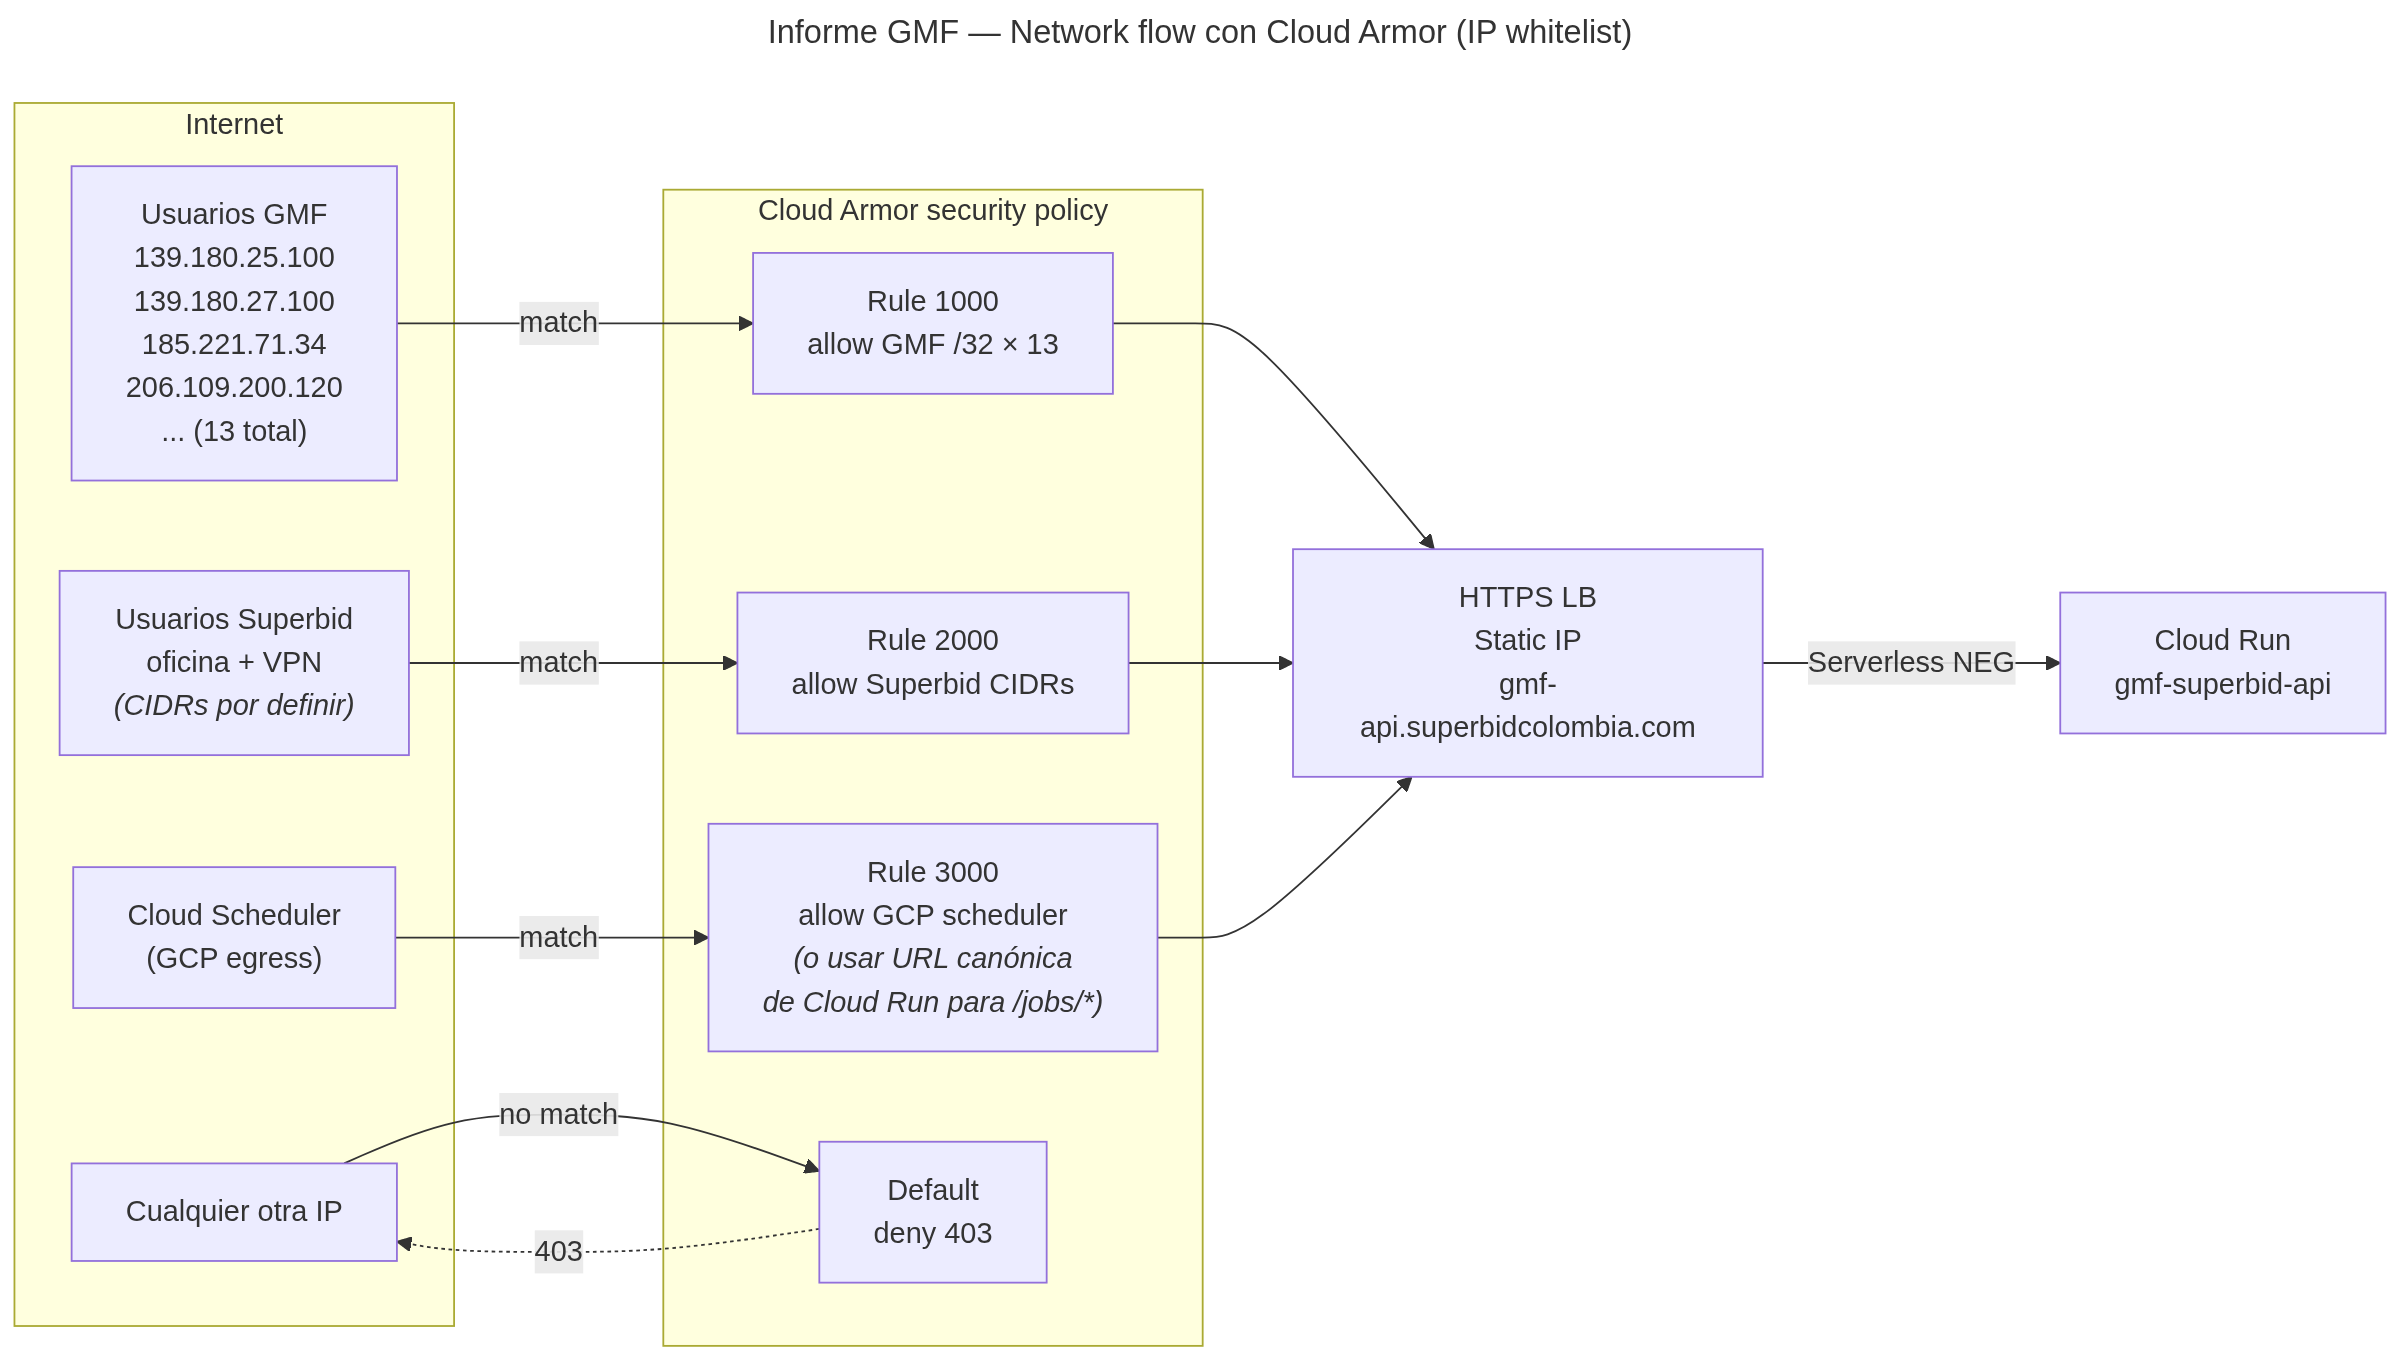
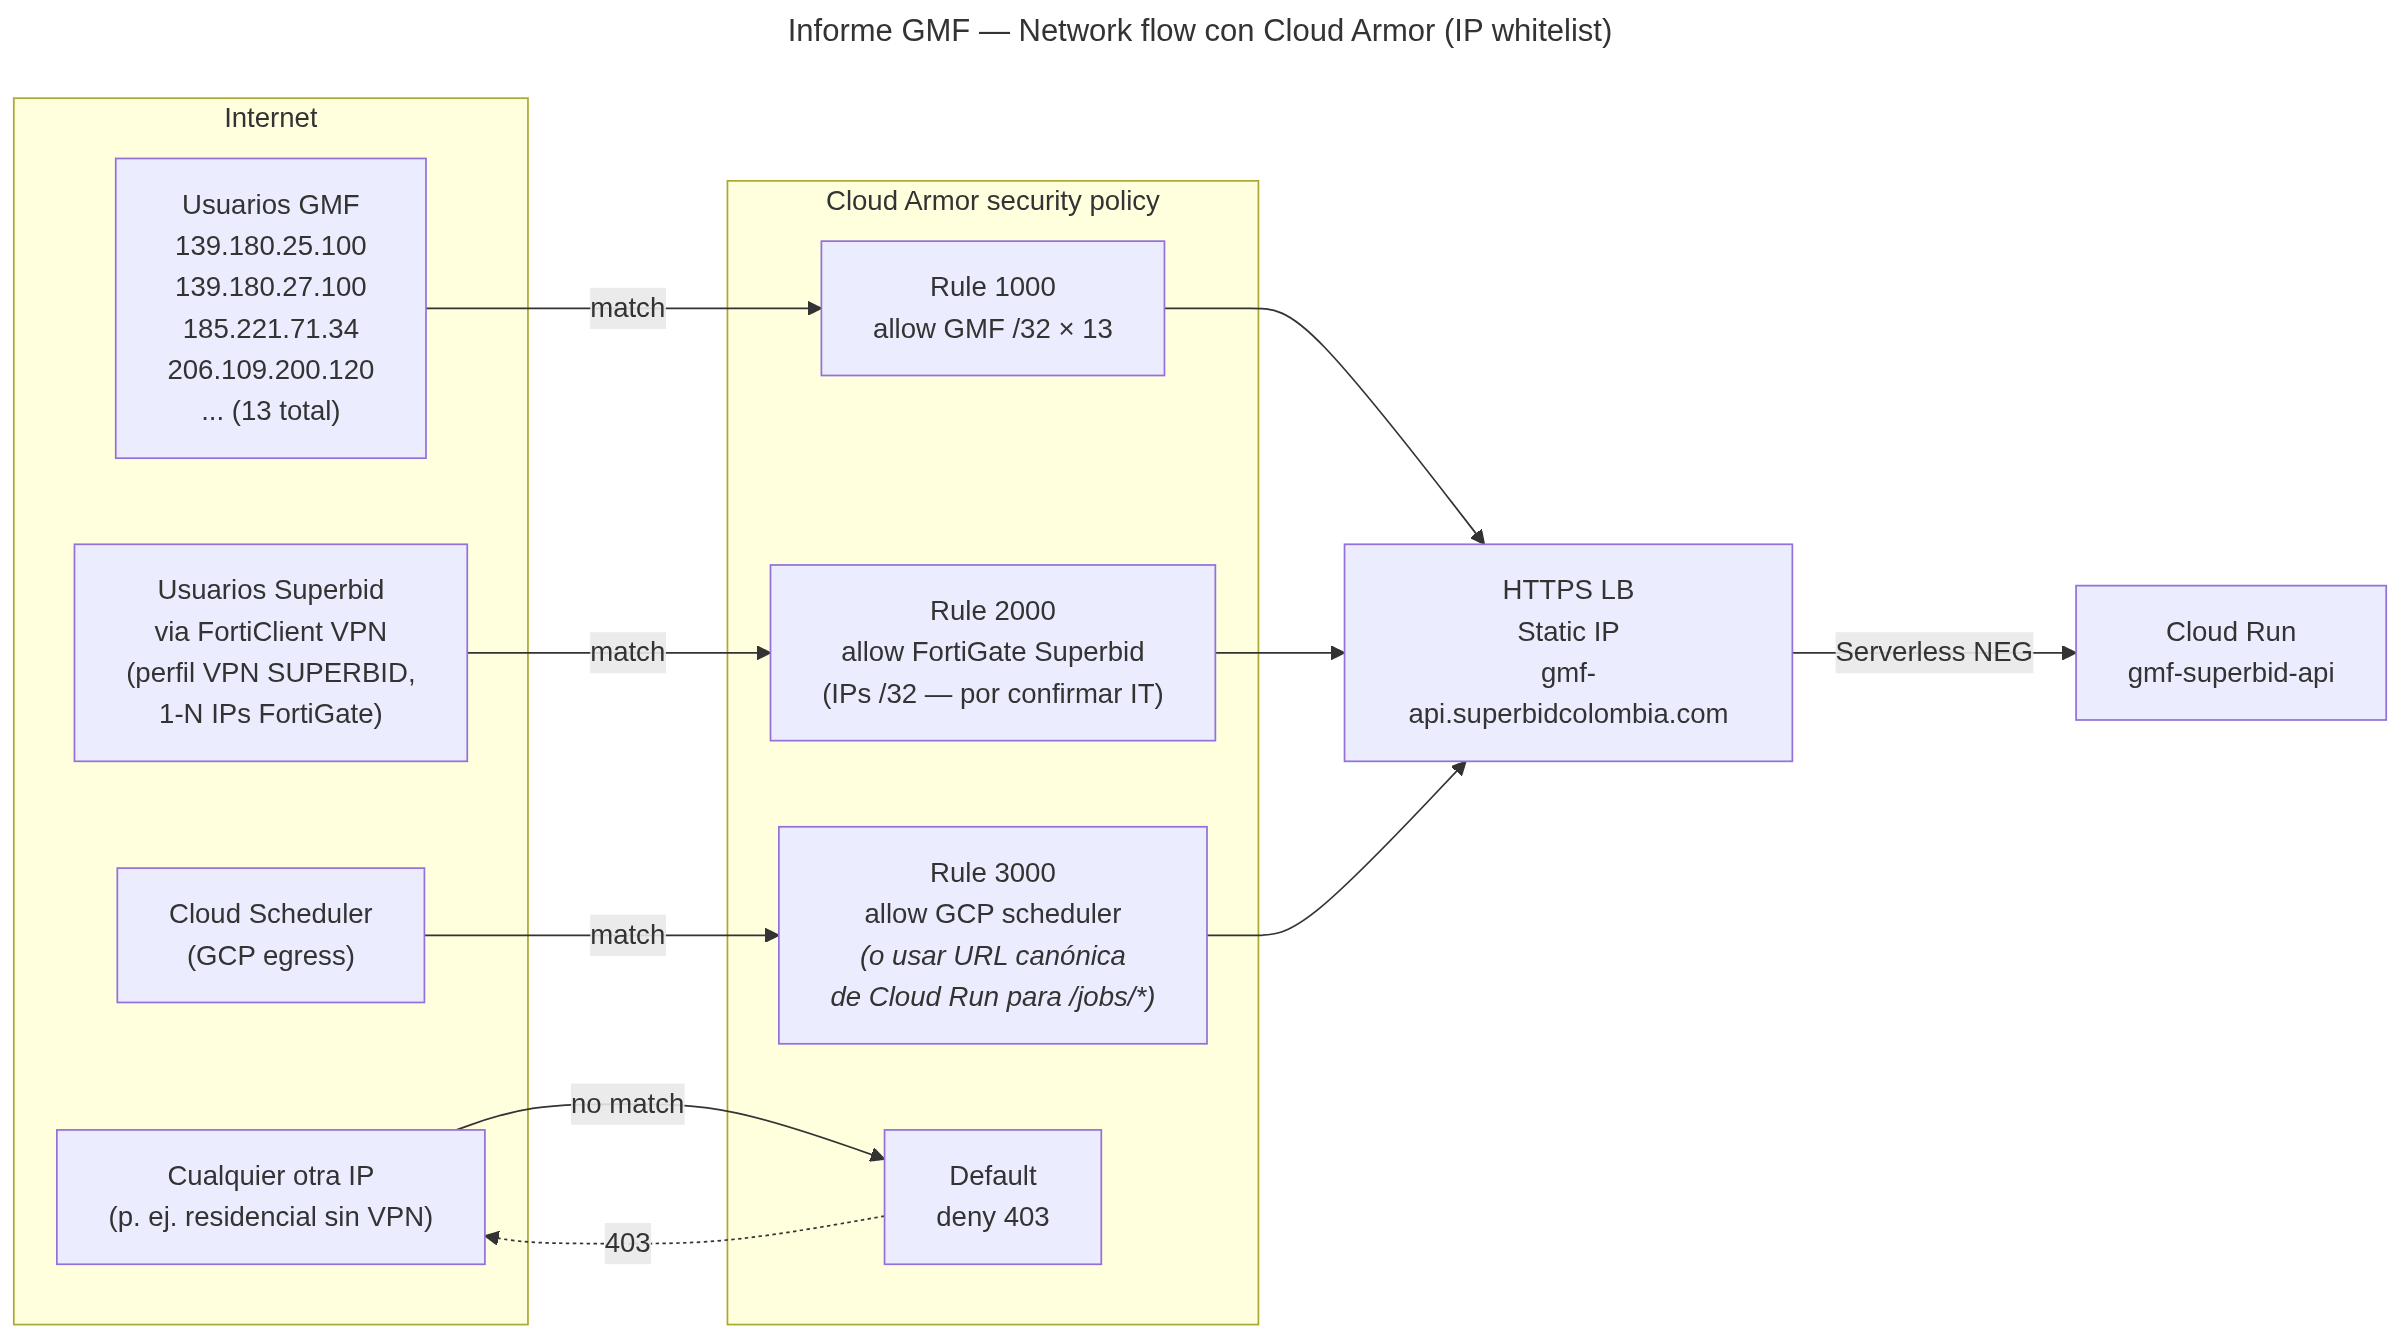
docs: borrador respuesta Edwin + mensaje IT con FortiClient VPN obligatoria
Tras confirmar internamente que Superbid usa FortiClient VPN
corporativa (perfil VPN SUPERBID) de uso obligatorio para todos los
empleados, refino los entregables de la sesión.

docs/comunicaciones/gm-edwin-respuesta-2026-05-10.md (nuevo):
- Borrador de respuesta a Edwin Rivera (IT Senior Specialist GMF) al
  thread del 8 may 2026.
- Confirma URLs (frontend gmf.superbidcolombia.com, Callback metadata,
  Redirect ACS), método SAML, NameID format.
- Acepta mapping de roles tal cual lo propuso GMF.
- Confirma atributos (email, givenName+familyName, groups).
- Adjunta los 4 PNGs como diagrama de arquitectura.
- Lista pendientes de su lado: metadata SAML del IdP, lista usuarios,
  cuenta de prueba.
- Notifica que Superbid está coordinando IPs internas con IT corp.

docs/comunicaciones/superbid-it-ip-egress.md:
- Reemplaza pedido genérico de CIDRs por mensaje focused en FortiGate
  corporativo (perfil VPN SUPERBID).
- Confirmado: uso obligatorio del VPN, sin alternativa de acceso sin
  VPN — el whitelist se reduce a 1-N IPs del FortiGate.
- Elimina pregunta sobre si la VPN es obligatoria (lo es).
- Agrega sanity check: cómo obtener IP actual con curl ipify y
  pedir confirmación a IT.
- Documenta atajo para detectar la IP en local.

docs/diagrams/01-overview.{mmd,png} + 02-network-cloud-armor.{mmd,png}:
- Nodos "Usuarios Superbid" actualizados a "FortiClient VPN obligatoria
  (perfil VPN SUPERBID, 1-N IPs FortiGate por confirmar)".
[…]

diff --git a/docs/comunicaciones/gm-edwin-respuesta-2026-05-10.md b/docs/comunicaciones/gm-edwin-respuesta-2026-05-10.md
@@ -1,0 +1,151 @@
+# Respuesta a Edwin Rivera (GMF) — confirmaciones + diagrama
+
+## Contexto
+
+Edwin Rivera (IT Senior Specialist GMF) respondió el 8 may 2026 al thread "RE: SOLICITUD NUEVO APLICATIVO SUPERBID" entregando:
+
+- ✅ 13 IPs USA para whitelist (salida 100% por NAT corporativo USA)
+- ✅ Aceptó nuestro mapeo de roles (admin/editor/lector/lector_con_notificacion → grupos `Okta_SuperBid_*`)
+- ✅ Confirmó atributos (email, givenName+familyName, groups)
+- ❓ Pidió confirmar: URL única del aplicativo, Callback URL, Redirect URL
+- ❓ Pidió diagrama de arquitectura (3ra vez en el thread — entregable bloqueante)
+- ❌ Aún no envía: metadata SAML del IdP, lista usuarios + roles iniciales, cuenta de prueba
+
+## Mensaje a enviar
+
+**Para**: `[email redacted]`
+**Cc**: `[email redacted]`, `[email redacted]`, `[email redacted]`, `[email redacted]`, equipo Superbid del thread (`maria.villa`, `sara.munoz`, `juliana.murillo`, `juan.lopez`, `retiros1`, `wuilson.chan`, `pagos`)
+**Asunto**: `RE: SOLICITUD NUEVO APLICATIVO SUPERBID — confirmaciones + diagrama de arquitectura`
+**Adjuntos**:
+- `01-overview.png`
+- `02-network-cloud-armor.png`
+- `03-auth-okta-saml.png`
+- `04-jobs-cloud-scheduler.png`
+
+---
+
+```
+Hola Edwin,
+
+Muchas gracias por la lista de IPs y por la coordinación con el equipo
+OKTA. Confirmo todo lo que pediste y respondo punto por punto.
+
+═══ Confirmaciones de las URLs (lado Service Provider) ═══
+
+1. URL única de acceso al aplicativo:
+   • Frontend (donde entran los usuarios):
+       https://gmf.superbidcolombia.com
+   • Backend / API (referencial, no requiere acceso directo del usuario):
+       https://gmf-api.superbidcolombia.com
+
+2. Callback URL (SP Entity ID / Metadata):
+       https://zbpvpduecodvnkjdrdoc.supabase.co/auth/v1/sso/saml/metadata
+   ✓ Confirmado.
+
+3. Redirect URL (ACS — Assertion Consumer Service):
+       https://zbpvpduecodvnkjdrdoc.supabase.co/auth/v1/sso/saml/acs
+   ✓ Confirmado.
+
+4. NameID Format:
+       urn:oasis:names:tc:SAML:1.1:nameid-format:emailAddress
+
+5. Single Logout (SLO): no requerido inicialmente.
+
+6. Firma de assertion: recomendado, no obligatorio.
+
+═══ Roles y atributos ═══
+
+El mapeo que propusieron funciona perfectamente:
+
+   admin                    → Okta_SuperBid_Admin
+   editor                   → Okta_SuperBid_Editor
+   lector                   → Okta_SuperBid_Lector
+   lector_con_notificacion  → Okta_SuperBid_LectorNoti
+
+Atributos requeridos confirmados:
+   • email (NameID)
+   • givenName + familyName  (o full_name como atributo único)
+   • groups (mapeado a los Okta_SuperBid_* anteriores)
+
+═══ Diagrama de arquitectura ═══
+
+Adjunto 4 PNGs que cubren los flujos del sistema:
+
+   • 01-overview.png            — vista general de componentes
+                                   (frontend, backend, DBs, externos)
+   • 02-network-cloud-armor.png — flujo de IP whitelist Cloud Armor
+                                   (incluye sus 13 IPs)
+   • 03-auth-okta-saml.png      — flujo de autenticación OKTA SAML
+                                   (post-integración)
+   • 04-jobs-cloud-scheduler.png — flujo de los crons internos
+                                   (no impacta el usuario final)
+
+Si necesitan más detalle técnico (tabla de service accounts, secretos
+en GCP, configuración de Supabase, etc.) puedo compartir el documento
+completo.
+
+═══ Pendientes de su lado para arrancar la integración OKTA ═══
+
+Para que podamos configurar la integración OKTA en Supabase Auth,
+necesitamos de ustedes:
+
+  1. Metadata SAML del IdP. Una de las dos opciones:
+     a) URL pública del metadata XML, o
+     b) El archivo XML adjunto exportado desde OKTA.
+     Contiene Issuer / Entity ID, Single Sign-On URL (HTTP-POST
+     binding) y certificado X.509 de firma.
+
+  2. Lista inicial de usuarios o grupos OKTA con su rol asignado
+     (lo que Samuel quedó de confirmar). Idealmente en formato:
+       email                    → rol app
+       [email redacted]  → admin / editor / lector / lector_con_notificacion
+
+  3. Una cuenta de prueba en OKTA con la que validemos el flujo
+     end-to-end antes de habilitarlo para todos los usuarios.
+
+═══ Estado de IP whitelist (Cloud Armor) ═══
+
+Sus 13 IPs ya están listadas para configurarse. Estamos coordinando
+internamente con IT de Superbid para confirmar nuestra IP de salida
+(VPN corporativo Forticlient) y agregarla al whitelist también, para
+que los administradores de nuestro lado puedan seguir cargando
+soportes y gestionando pagos.
+
+Antes de aplicar el "deny default" voy a configurar la política en
+modo preview (loguea pero no bloquea) para confirmar que el tráfico
+desde sus 13 IPs llega correctamente y evitar bloquear usuarios
+legítimos.
+
+═══ Tiempos ═══
+
+  • IP whitelist (Cloud Armor):
+      ~1h configurar + 24-48h en preview + 30 min validar antes de
+      pasar a enforce. Lo arrancamos esta semana.
+
+  • OKTA SSO:
+      1-2h configurar + 30 min de pruebas con la cuenta test.
+      Comenzamos en cuanto recibamos los 3 puntos del bloque
+      anterior (metadata, lista de usuarios, cuenta de prueba).
+
+Quedamos atentos a sus comentarios y a la información solicitada.
+
+Saludos,
+Juan Esteban Saavedra Mayorga
+Analista Junior | Comercial
+Superbid Colombia
+```
+
+---
+
+## Checklist antes de enviar
+
+- [ ] Confirmar quién firma — el remitente original fue Juan Saavedra; si firma otra persona ajustar nombre y cargo.
+- [ ] Adjuntar los 4 PNGs de `docs/diagrams/*.png`.
+- [ ] Verificar que la lista de Cc del thread original esté completa (Maria Paula Villa, Sara Cristina Usma, Juliana Murillo, Juan David Lopez, Retiros Superbid, Wuilson Chan, Pagos Superbid).
+- [ ] Si querés mandar el documento de arquitectura completo (no solo los PNGs), exportar `docs/arquitectura.md` a PDF o adjuntarlo en MD.
+
+## Qué desbloquea este correo
+
+- **De su lado**: que Samuel confirme la lista de usuarios + roles iniciales (item 2 de pendientes), y que el equipo OKTA mande el metadata XML (item 1).
+- **De nuestro lado**: nada, ya tenemos lo que necesitábamos (las 13 IPs y el aval del mapeo de roles).
+- **Mantiene momentum**: GMF ve avance concreto (diagrama entregado, URLs confirmadas), no quedamos como bloqueantes.

diff --git a/docs/comunicaciones/superbid-it-ip-egress.md b/docs/comunicaciones/superbid-it-ip-egress.md
@@ -1,35 +1,37 @@
-# Mensaje a Superbid IT — IPs de salida para whitelist Cloud Armor
+# Mensaje a Superbid IT — IP de salida VPN Forticlient (Cloud Armor whitelist)
 
 ## Contexto
 
-GM Financial entregó el 8 may 2026 las 13 IPs corporativas USA desde las que sus usuarios accederán al aplicativo Informe GMF. Antes de aplicar el `deny default` en Cloud Armor, necesitamos las IPs **desde las que sale Superbid a internet** para que admins/editores/lectores nuestros (`@superbid.com.co`) sigan pudiendo entrar al aplicativo.
+GM Financial entregó el 8 may 2026 las 13 IPs corporativas USA desde las que sus usuarios accederán al aplicativo Informe GMF. Antes de aplicar el `deny default` en Cloud Armor, necesitamos la IP **pública de salida del VPN Forticlient corporativo de Superbid** para que admins/editores/lectores nuestros (`@superbid.com.co`) sigan pudiendo entrar al aplicativo.
+
+**Confirmado** (verificado con captura del cliente VPN, 2026-05-10):
+- Cliente: **FortiClient VPN** (Zero Trust Fabric Agent).
+- Perfil: **`VPN SUPERBID`**.
+- Uso: **obligatorio para todos los empleados** — no hay alternativa de acceso a recursos internos sin VPN. Esto simplifica enormemente el whitelist: todos los empleados de Superbid salen a internet por la IP pública del FortiGate, no por su IP residencial.
+
+Resultado: el whitelist se reduce a **1-N IPs del FortiGate corporativo**, en vez de pedir múltiples CIDRs (oficinas, VPNs separadas, residenciales, etc).
 
 ## Mensaje (copiar/pegar en Slack o email interno a IT)
 
-> **Asunto**: Informe GMF — IPs públicas de salida corporativas (Cloud Armor whitelist)
+> **Asunto**: Informe GMF — IP pública de salida del VPN Forticlient (Cloud Armor whitelist)
 >
 > Hola equipo IT,
 >
 > Estamos por activar IP whitelist en Google Cloud Armor delante del backend del aplicativo Informe GMF (`https://gmf-api.superbidcolombia.com`) como requisito de GM Financial. GMF ya nos entregó sus 13 IPs (todas USA, salida 100% por su NAT corporativo).
 >
-> Para que **los empleados de Superbid sigamos pudiendo entrar al aplicativo** después del cutover, necesito de ustedes la lista de IPs públicas / rangos CIDR desde los que salimos a internet:
+> Como en Superbid el uso de **FortiClient VPN (perfil `VPN SUPERBID`) es obligatorio** para todos los empleados, la salida a internet de cualquier empleado va por la IP pública del FortiGate corporativo. Eso nos resuelve el whitelist sin tener que pedir IPs por persona/oficina/casa. Necesito que me confirmen:
 >
-> 1. **Oficina Carrera 16 #93-78 (Bogotá)** — ¿tenemos IP estática? ¿cuál es el CIDR?
-> 2. **Otras oficinas** (si aplica) — Medellín, etc.
-> 3. **VPN corporativa** — si los empleados que trabajan remoto entran por VPN, ¿cuál es la IP de salida fija de la VPN?
-> 4. **Empleados sin VPN trabajando desde casa** — ¿hay alguno? Si sí, ¿cómo manejan IPs residenciales hoy?
+> 1. **IP pública de salida del FortiGate** (la IP por donde sale a internet un empleado mientras está conectado al perfil `VPN SUPERBID`). En formato `x.x.x.x/32` o el CIDR si es un bloque (`x.x.x.0/29`, etc).
 >
-> Formato esperado por cada rango (idéntico al que pedimos a GMF):
+> 2. **¿Hay alta disponibilidad / múltiples IPs?** ¿1 solo FortiGate o varios (failover activo-activo, multi-sitio LATAM)? Si son varios, listarlas todas — las agregamos todas al whitelist.
 >
-> ```
-> CIDR              Descripción                Owner / contacto
-> 200.74.10.0/24    Oficina Bogotá             [email redacted]
-> 181.49.50.123/32  IP fija salida VPN         [email redacted]
-> ```
+> 3. **Contacto técnico** para validar el whitelist en modo `preview` antes de aplicar `deny default` (alguien que pueda confirmar que sigue entrando al aplicativo después del cambio de DNS).
 >
-> **Si no hay IP estática ni VPN con IP fija**, recomiendo agendar 30 min para definir contingencia — opciones típicas: setup de VPN corporativa con IP de salida fija (Tailscale, OpenVPN, NordLayer, Twingate), o uso de IAP de Google delante del LB para auth-by-identity en lugar de IP.
+> Como sanity check, conectado al `VPN SUPERBID` ahora mismo veo mi IP pública con `curl https://api.ipify.org` y me da `<IP>`. ¿Es esa la IP de salida del FortiGate, o es otra?
 >
-> Mientras llega la respuesta voy a configurar Cloud Armor en **modo `preview`** (loguea pero no bloquea) para mapear el tráfico real de los usuarios actuales y evitar dejar a alguien fuera al activar el `deny default`.
+> Mientras llega la respuesta voy a configurar Cloud Armor en **modo `preview`** (loguea pero no bloquea) para mapear el tráfico real durante 24-48h y confirmar que las IPs que vemos son las esperadas antes de activar el `deny default`.
+>
+> Tiempo estimado: 1h con la IP confirmada + 30 min de pruebas en preview + 24-48h de logging antes del enforce.
 >
 > Quedo pendiente,
 > [Tu nombre]
@@ -37,18 +39,35 @@ GM Financial entregó el 8 may 2026 las 13 IPs corporativas USA desde las que su
 
 ## Para quién
 
-- Lead IT / SysAdmin de Superbid Colombia
-- Si hay equipo de NetOps o Seguridad separado, copiarlos.
+- Lead IT / SysAdmin de Superbid Colombia (probablemente el que administra el FortiGate).
+- Si hay equipo de NetOps / Seguridad separado, copiarlos.
 
 ## Información que conviene tener antes de mandarlo
 
-- [ ] Nombre del lead IT (para personalizar el saludo)
-- [ ] Si la oficina de Bogotá tiene IP estática conocida (te ahorras una pregunta si ya lo sabés)
-- [ ] Si Superbid LATAM (no solo Colombia) usa el aplicativo o solo Colombia (alcance del whitelist)
+- [ ] Nombre del lead IT
+- [ ] Tu IP pública actual estando conectado al `VPN SUPERBID`. Sacala con:
+      ```
+      curl https://api.ipify.org
+      ```
+      Pegala en el mensaje en el bloque "Como sanity check..." reemplazando `<IP>`. Le ahorra a IT una vuelta de email — solo tienen que confirmar sí/no.
+- [ ] Si Superbid LATAM (no solo Colombia) usa el aplicativo o solo Colombia (alcance del whitelist; si LATAM, puede haber FortiGates por país)
 
 ## Lo que sigue una vez tengamos respuesta
 
-1. Sumar los CIDRs de Superbid a la security policy de Cloud Armor (rule prioridad 2000).
-2. Activar la policy en modo `preview` por 24-48h y revisar los logs (`logging.googleapis.com/security/cloud_armor`).
-3. Si los logs confirman que GMF + Superbid son los únicos orígenes legítimos → cambiar a `deny default` (modo enforce).
-4. Smoke test: un usuario GMF debe poder entrar; un usuario fuera de la lista debe recibir 403.
+1. Sumar la(s) IP(s) del FortiGate Superbid a la security policy de Cloud Armor (rule prioridad 2000).
+2. Activar la policy en modo `preview` por 24-48h.
+3. Revisar los logs (`logging.googleapis.com/security/cloud_armor`) — confirmar que GMF (13 IPs) + Superbid (FortiGate) son los únicos orígenes con tráfico legítimo.
+4. Cambiar a `deny default` (modo enforce).
+5. Smoke test: usuario conectado al `VPN SUPERBID` entra OK; usuario desconectado del VPN recibe 403; un usuario GMF entra OK desde una de las 13 IPs.
+
+## Atajo: detectar tu IP de salida actual
+
+Estando conectado al perfil `VPN SUPERBID` en FortiClient:
+
+```bash
+curl -s https://api.ipify.org
+# o
+curl -s https://ifconfig.me
+```
+
+La IP que devuelve es la que IT debe confirmar como salida del FortiGate. Si reconectás el VPN y la IP cambia → hay rotación / múltiples FortiGates y necesitamos todas las IPs del pool.

diff --git a/docs/arquitectura.md b/docs/arquitectura.md
@@ -12,7 +12,7 @@ Los diagramas están en Mermaid (renderizables directamente en GitHub o exportab
 flowchart TB
     subgraph internet["🌐 Internet"]
         userGMF["Usuarios GMF<br/>13 IPs USA<br/>(salida 100% USA)"]
-        userSB["Usuarios Superbid<br/>IPs corporativas<br/><i>(por confirmar)</i>"]
+        userSB["Usuarios Superbid<br/>FortiClient VPN obligatoria<br/>(perfil VPN SUPERBID,<br/>1-N IPs FortiGate por confirmar)"]
     end
 
     subgraph fb["Firebase project: informegmf"]
@@ -67,20 +67,22 @@ flowchart TB
 
 ### Network — IP whitelist (Cloud Armor)
 
-Las **13 IPs de GMF** vienen de la respuesta de Edwin Rivera (8 may 2026): salida 100% USA, owners mezclan Vultr/Choopa, GM Financial directo y colocation. Las **IPs de Superbid** quedan por confirmar con IT corporativo.
+Las **13 IPs de GMF** vienen de la respuesta de Edwin Rivera (8 may 2026): salida 100% USA, owners mezclan Vultr/Choopa, GM Financial directo y colocation.
+
+Del **lado Superbid** se usa **FortiClient VPN corporativo de uso obligatorio** (perfil `VPN SUPERBID`, FortiGate corporativo). Todos los empleados salen a internet por la(s) IP(s) pública(s) del FortiGate, lo que reduce el whitelist a 1-N IPs `/32` en lugar de pedir CIDRs por oficina/casa. La IP exacta queda por confirmar con IT corporativo.
 
 ```mermaid
 flowchart LR
     subgraph internet["Internet"]
         gmf["Usuarios GMF<br/>139.180.25.100<br/>139.180.27.100<br/>185.221.71.34<br/>206.109.200.120<br/>... (13 total)"]
-        sb["Usuarios Superbid<br/>oficina + VPN<br/><i>(CIDRs por definir)</i>"]
+        sb["Usuarios Superbid<br/>via FortiClient VPN<br/>(perfil VPN SUPERBID,<br/>1-N IPs FortiGate)"]
         scheduler["Cloud Scheduler<br/>(GCP egress)"]
-        else["Cualquier otra IP"]
+        else["Cualquier otra IP<br/>(p. ej. residencial sin VPN)"]
     end
 
     subgraph policy["Cloud Armor security policy"]
         r1["Rule 1000<br/>allow GMF /32 × 13"]
-        r2["Rule 2000<br/>allow Superbid CIDRs"]
+        r2["Rule 2000<br/>allow FortiGate Superbid<br/>(IPs /32 — por confirmar IT)"]
         r3["Rule 3000<br/>allow GCP scheduler<br/><i>(o usar URL canónica<br/>de Cloud Run para /jobs/*)</i>"]
         rd["Default<br/>deny 403"]
     end
@@ -264,7 +266,7 @@ Estado actualizado al 2026-05-10, post-respuesta de Edwin Rivera (IT Senior Spec
 
 | Requerimiento | Estado | Bloqueante / Próximo paso |
 |---|---|---|
-| **IP whitelist (Cloud Armor)** | 🟡 GMF entregó 13 IPs (USA, /32) | Falta confirmar IPs de salida de Superbid (oficina + VPN). Sin esto los admins/editores de Superbid no entrarán al aplicativo cuando se aplique deny default. |
+| **IP whitelist (Cloud Armor)** | 🟡 GMF entregó 13 IPs (USA, /32) | Falta confirmar IP(s) del FortiGate corporativo de Superbid (perfil `VPN SUPERBID` en FortiClient — VPN obligatoria para todos los empleados). Sin esto los admins/editores de Superbid no entrarán al aplicativo cuando se aplique deny default. Mensaje a IT en `comunicaciones/superbid-it-ip-egress.md`. |
 | **OKTA SSO — roles** | ✅ GMF aceptó mapeo: `admin → Okta_SuperBid_Admin`, `editor → Okta_SuperBid_Editor`, `lector → Okta_SuperBid_Lector`, `lector_con_notificacion → Okta_SuperBid_LectorNoti` | — |
 | **OKTA SSO — atributos** | ✅ Confirmados por GMF: `email` (NameID o atributo), `givenName + familyName` (o `full_name`), `groups` | — |
 | **OKTA SSO — metadata IdP** | ❌ pendiente | GMF debe enviar URL pública del metadata XML o el archivo XML exportado de OKTA. Sin esto Supabase Auth no puede configurar el SSO. |